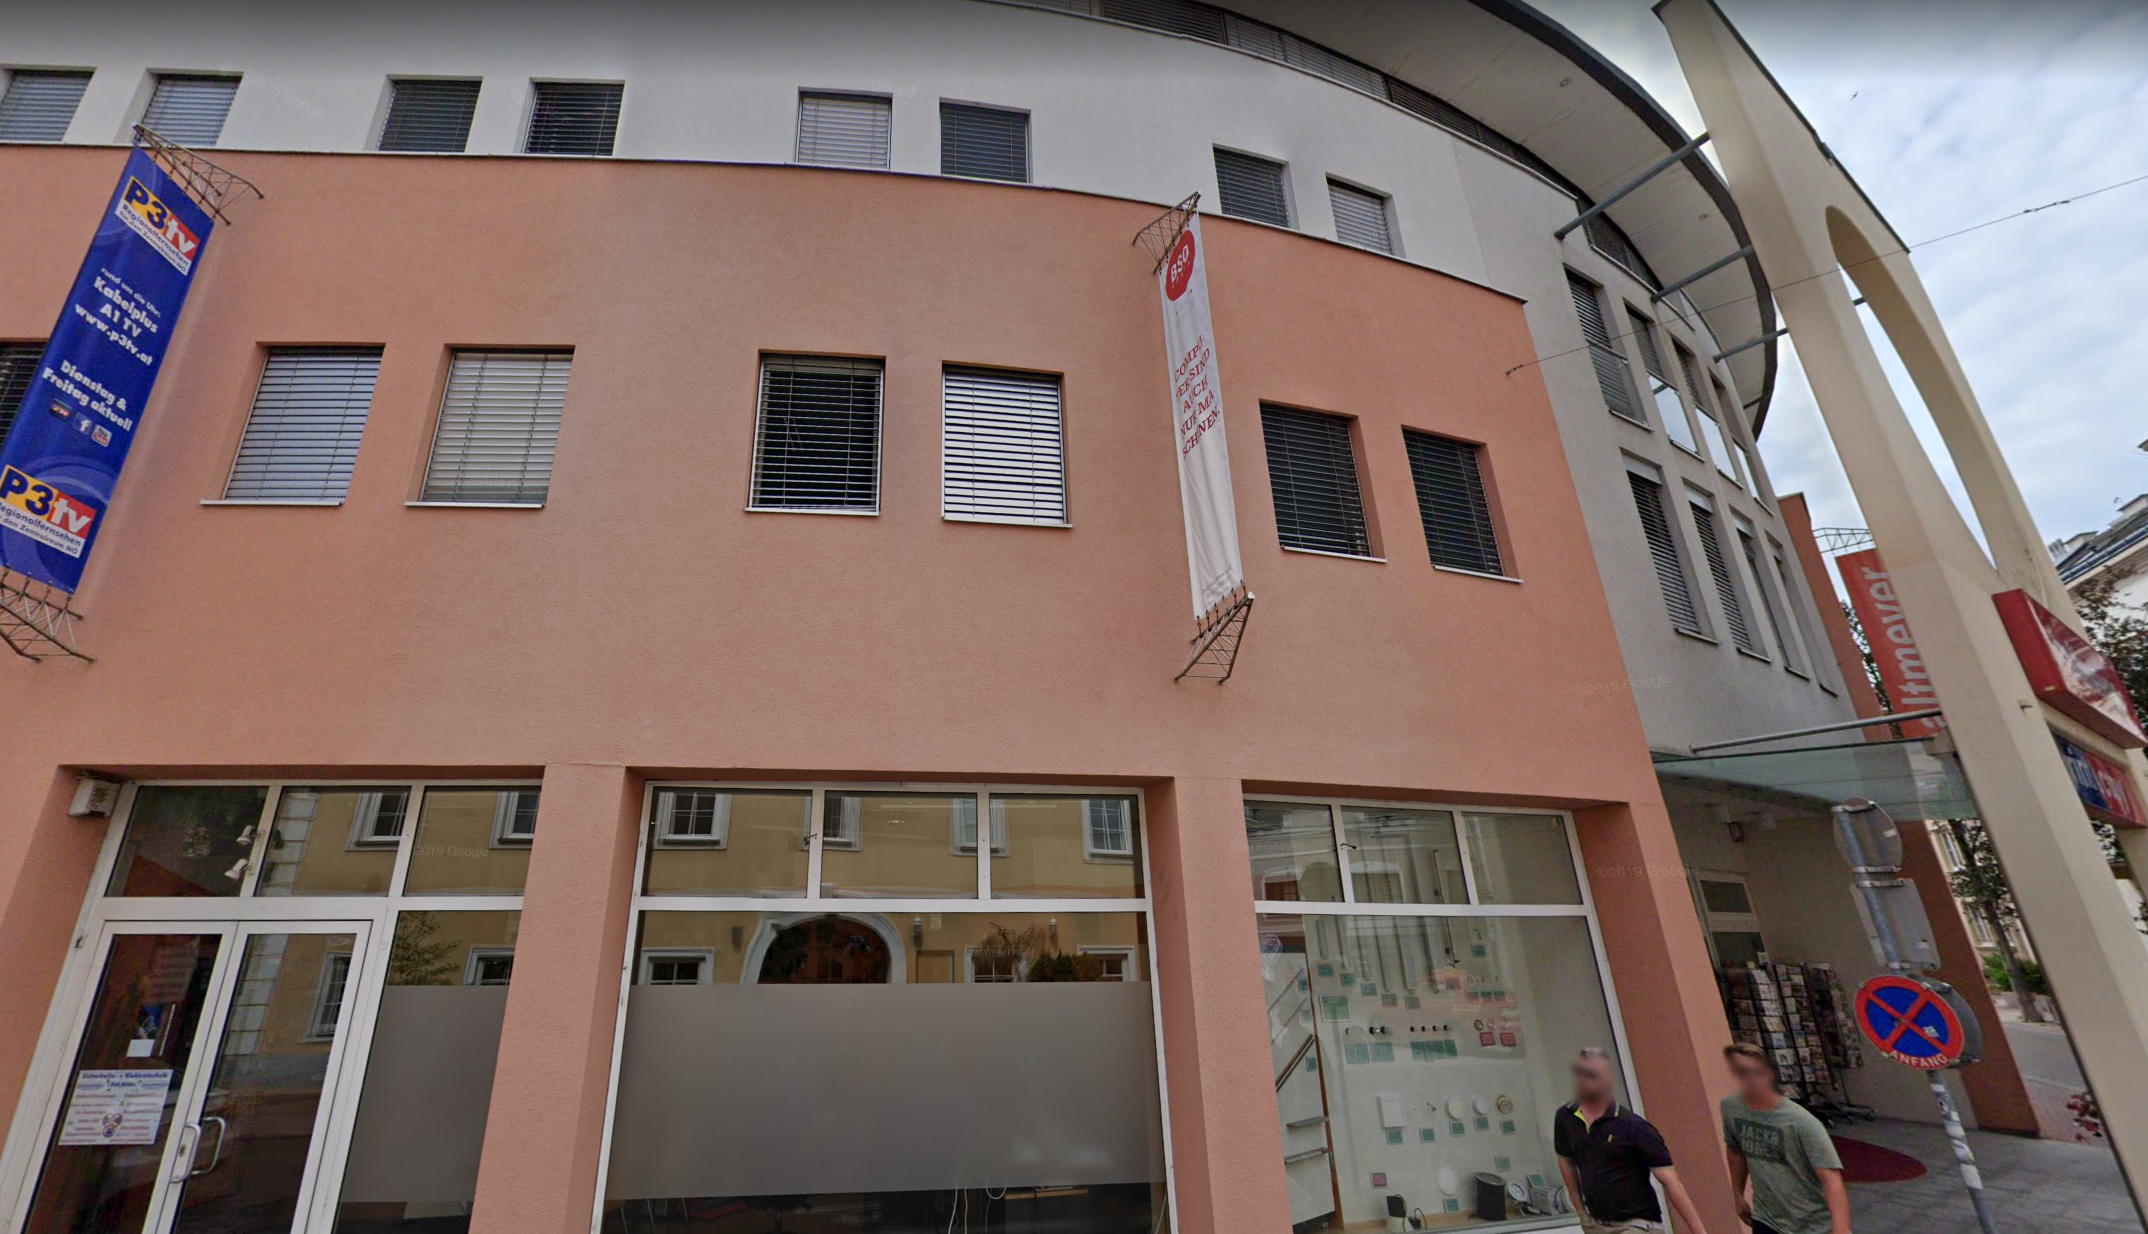
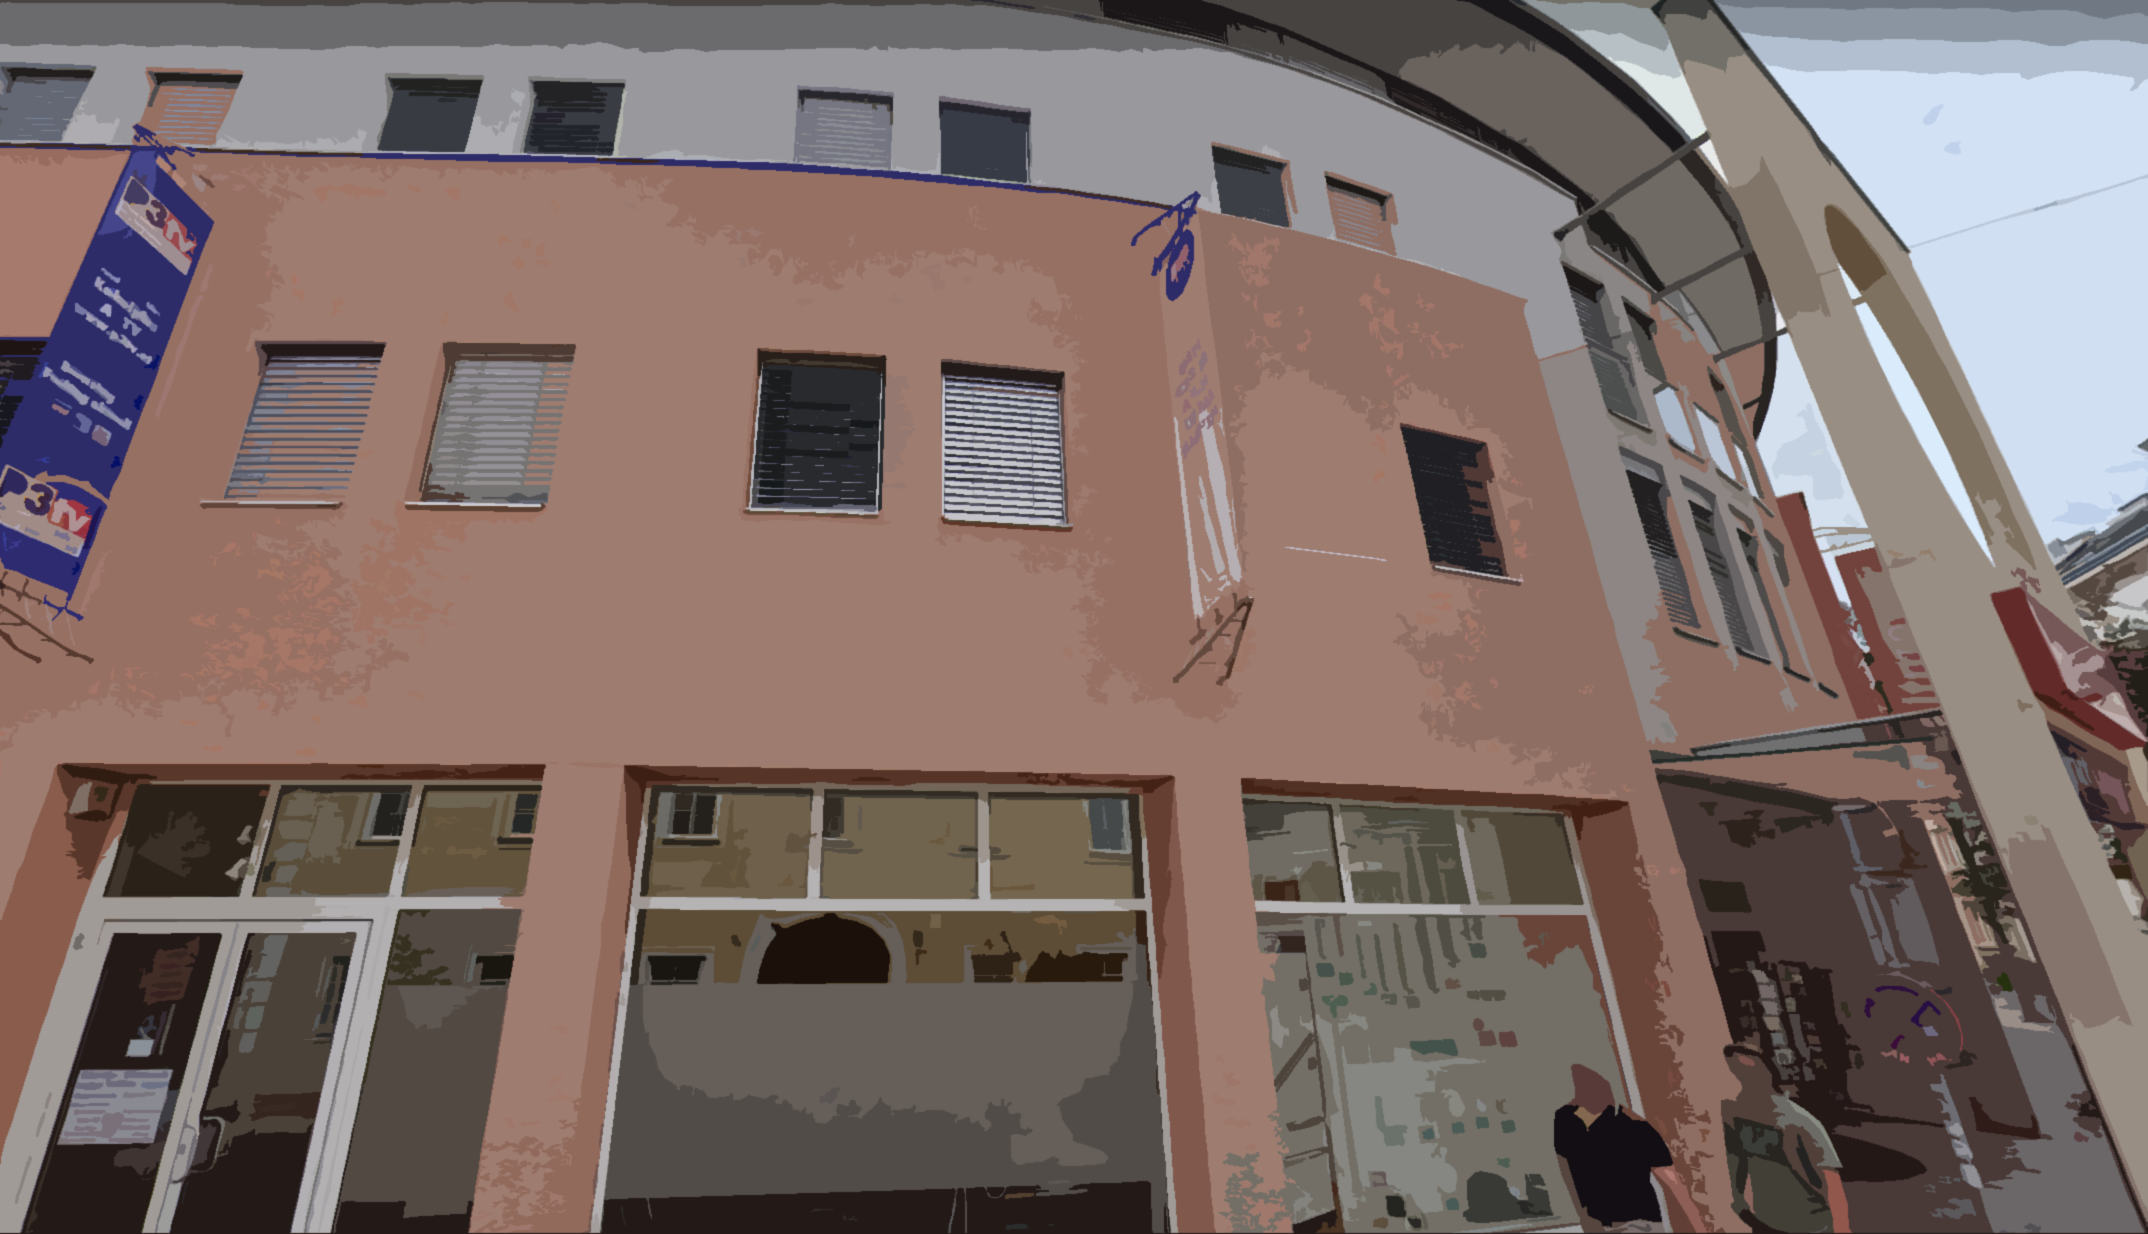
Added some filters to the background images

diff --git a/components/pages/index/Career.tsx b/components/pages/index/Career.tsx
@@ -9,7 +9,7 @@ import BlurredBgImage from "../../BlurredBgImage";
 import asboe_bg from "../../../public/images/background_images/asboe.jpg";
 import bso_bg from "../../../public/images/background_images/bso.png";
 import geberit_bg from "../../../public/images/background_images/geberit.jpg";
-import gemeinde_bg from "../../../public/images/background_images/gemeinde.jpeg";
+import gemeinde_bg from "../../../public/images/background_images/gemeinde.jpg";
 
 interface JobInterface {
   position: string | JSX.Element;

diff --git a/components/pages/index/Education.tsx b/components/pages/index/Education.tsx
@@ -5,7 +5,7 @@ import Trans from "next-translate/Trans";
 import BlurredBgImage from "../../BlurredBgImage";
 
 import tu_bg from "../../../public/images/background_images/tu.jpg";
-import htl_bg from "../../../public/images/background_images/htl.jpeg";
+import htl_bg from "../../../public/images/background_images/htl.jpg";
 import borg_bg from "../../../public/images/background_images/borg.jpg";
 
 interface SchoolInterface {
